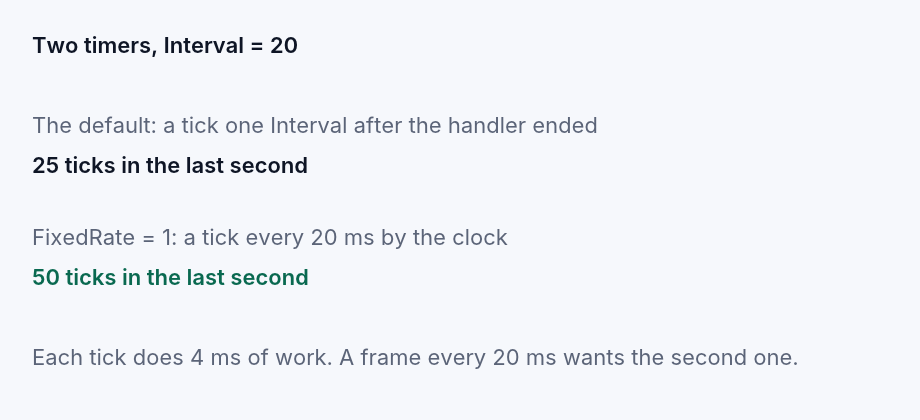
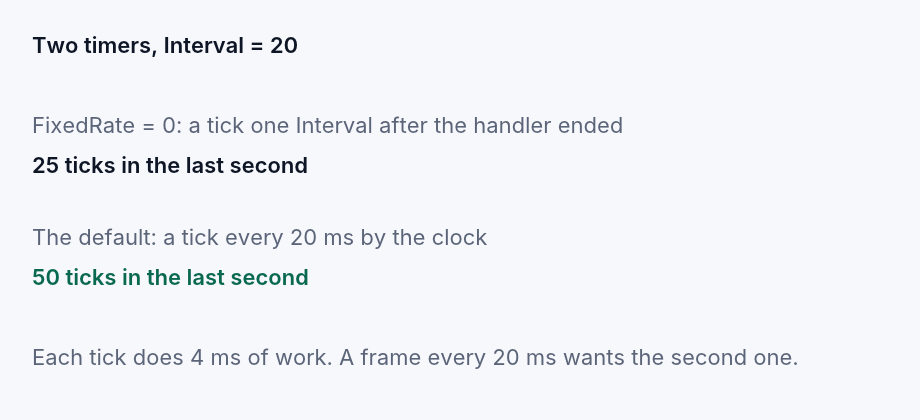
RTimer in a RapidR program ticks at a fixed rate by default (approved): FixedRate is True unless the program sets it to 0
Robert approved the rr-sane row (2026-11-07 19:43). In a .rr program an
RTimer now ticks every Interval exactly, by the clock; FixedRate = 0 is the
old rhythm (a tick one Interval after the handler ended, in Windows' 15.6 ms
steps). A classic program's QTIMER (.bas) is exactly as before, the system
timer's beat (the classic compiler's output); an RTimer made in a classic
program reads FixedRate False.

- component_defaults: FixedRate starts True in a RapidR program and False in
  a classic one (rapidr_program()), on every runtime; no registry default
  (the dialect sets it); unit test.
- timers: a tick that is already due when its handler ends (a heavy handler
  on a short Interval, an animation) waits a millisecond, so the window
  loop's other work - events, a test script, Studio's link - is never
  starved. Found by showcase/signal_lab.rr (Interval 1, a heavy handler):
  its scripted run did not finish; with the wait it takes as long as before.
  Classic programs' overdue ticks get the same wait.
- Conformance pair: rapidq_timer_steps.bas (the classic compiler's output:
  Interval 20 ticks about 32 times a second) and timer_default_rate.rr (50,
  FixedRate reads 1); timer_fixed_rate runs the default, then FixedRate = 0.
  Desktop (vm, vm-jit, native) and web; the whole suite on the VM, 361/361.
- RapidR Studio is a .rr program: its two "a turn later" timers with
  Interval = 1 (EditorFocus, PerfReady) keep the old rhythm (FixedRate = 0,
[…]

Changed region(s): [[0.0304, 0.2786, 0.7, 0.3405], [0.0304, 0.5262, 0.5478, 0.5881]]

diff --git a/crates/rapidr-ui-app/src/tests.rs b/crates/rapidr-ui-app/src/tests.rs
@@ -391,7 +391,9 @@ fn a_classic_timer_keeps_its_beat_whatever_its_handler_takes() {
     // at once; the beat goes on from 93.75
     advance(Duration::from_millis(50));
     run_queued();
-    assert_eq!(timers::next_due(), Some(at(112.5)));
+    // (already due: the loop's other work first, a millisecond)
+    assert_eq!(timers::next_due(), Some(at(113.5)));
+    advance(Duration::from_millis(1));
     assert!(timers::fire_due(Mem));
     run_queued();
     assert_eq!(timers::next_due(), Some(at(125.0)), "back on the beat: 93.75 + 31.25");
@@ -416,8 +418,11 @@ fn a_timer_that_is_behind_runs_once_a_turn() {
     });
     advance(Duration::from_micros(31_250));
     assert!(!timers::fire_due(Mem));
-    assert_eq!(fired().len(), 1, "its next tick fell due during the handler: it waits for the next turn");
-    assert_eq!(timers::next_due().map(|d| d <= NOW.with(|n| n.get()).unwrap()), Some(true));
+    assert_eq!(fired().len(), 1, "its next tick fell due during the handler: it waits for the loop's other work");
+    // (a millisecond, not more: the loop's turn, then it runs again)
+    let now = NOW.with(|n| n.get()).unwrap();
+    assert_eq!(timers::next_due(), Some(now + timers::OVERDUE_WAIT));
+    advance(timers::OVERDUE_WAIT);
     assert!(!timers::fire_due(Mem));
     assert_eq!(fired().len(), 2);
 }
@@ -445,16 +450,18 @@ fn a_fixed_rate_timer_ticks_every_interval_and_catches_up() {
     // beat goes on from it
     advance(Duration::from_millis(35));
     run_queued();
-    assert_eq!(timers::next_due(), Some(at(55)));
+    assert_eq!(timers::next_due(), Some(at(56)), "the tick of 40 is due: the loop's other work first, a millisecond");
+    advance(Duration::from_millis(1));
     assert!(timers::fire_due(Mem));
     run_queued();
     assert_eq!(timers::next_due(), Some(at(60)));
-    advance(Duration::from_millis(5));
+    advance(Duration::from_millis(4));
     assert!(timers::fire_due(Mem));
     // a handler of 600 ms (a dialog): too far behind to replay, it counts again from then
     advance(Duration::from_millis(600));
     run_queued();
-    assert_eq!(timers::next_due(), Some(at(660)));
+    assert_eq!(timers::next_due(), Some(at(661)), "behind: a millisecond for the loop, then it counts again");
+    advance(Duration::from_millis(1));
     assert!(timers::fire_due(Mem));
     run_queued();
     assert_eq!(timers::next_due(), Some(at(680)));

diff --git a/crates/rapidr-ui-app/src/timers.rs b/crates/rapidr-ui-app/src/timers.rs
@@ -111,6 +111,11 @@ pub enum Rhythm {
     Fixed,
 }
 
+/// How long a tick that is already due waits when its handler ends (the
+/// loop's other work gets its turn): the catch-up ticks follow each other at
+/// least this far apart.
+pub const OVERDUE_WAIT: Duration = Duration::from_millis(1);
+
 /// How far behind a `FixedRate` timer catches up one tick after another;
 /// further behind (a window dragged, a dialog, a stalled machine) it starts
 /// counting again, not to replay seconds of ticks.
@@ -238,8 +243,8 @@ pub fn fire_due_then<P: Program>(p: P, then: impl Fn()) -> bool {
         });
         let Some(name) = due else { return false };
         // (a timer that is behind is due again the moment its handler ends:
-        // its next tick waits for the next turn, so the window's events
-        // between are not starved — as WM_TIMER comes after the others)
+        // its next tick waits for a turn of the window loop, so the window's
+        // events between are not starved — as WM_TIMER comes after the others)
         if !round.insert(name.clone()) {
             let at = p.now();
             tm(|s| {
@@ -288,6 +293,10 @@ fn rearm<P: Program>(p: P, name: String) {
     let now = p.now();
     let grid = tm(|s| s.grid.get(&name).copied()).unwrap_or(now);
     let (at, grid) = follow(rhythm(p, &name), grid, period, now);
+    // (already due when its handler ended — it ran long: the loop's other
+    // work gets a turn before it runs again, so a handler that is always due
+    // never starves the window's events, a test script or Studio's link)
+    let at = if at <= now { now + OVERDUE_WAIT } else { at };
     tm(|s| {
         s.gen += 1;
         let g = s.gen;

diff --git a/crates/rapidr-value/src/component_defaults.rs b/crates/rapidr-value/src/component_defaults.rs
@@ -97,6 +97,10 @@ pub fn extras(type_name: &str) -> Vec<(String, Value)> {
             put("top", v_int(0));
             put("visible", v_bool(true));
         }
+        // RTimer's FixedRate: on in a RapidR program (a tick every Interval
+        // exactly, by the clock), off in a classic one (QTIMER keeps the
+        // system timer's own beat) — rapidr_ui_app::timers::Rhythm.
+        "RTIMER" => put("fixedrate", v_bool(crate::rapidr_program())),
         // QDIGDISPLAY: a canvas showing its Display (objects::digdisplay).
         "RDIGDISPLAY" => put("color", v_int(0)),
         // (docked at the bottom: its Align, the registry's alBottom)
@@ -380,6 +384,16 @@ mod tests {
 
     fn get<'a>(p: &'a [(String, Value)], k: &str) -> Option<&'a Value> {
         p.iter().rev().find(|(n, _)| n == k).map(|(_, v)| v)
+    }
+
+    /// RTimer's FixedRate starts on in a RapidR program and off in a classic one.
+    #[test]
+    fn a_timers_fixed_rate_follows_the_dialect() {
+        crate::set_rapidr_program(false);
+        assert_eq!(get(&creation("RTIMER"), "fixedrate"), Some(&v_bool(false)), "a classic program's QTIMER");
+        crate::set_rapidr_program(true);
+        assert_eq!(get(&creation("RTIMER"), "fixedrate"), Some(&v_bool(true)), "a RapidR program's RTimer");
+        crate::set_rapidr_program(false);
     }
 
     #[test]

diff --git a/docs/manual/es/graphics.md b/docs/manual/es/graphics.md
@@ -245,32 +245,41 @@ eso ya no pasa.
 
 ## Una imagen cada 20 milisegundos
 
-El `Interval` de un temporizador se cuenta en los pasos de 15.6 ms del
-temporizador del sistema, redondeado hacia arriba: `Interval = 20` son 31.25 ms,
-unas 32 marcas por segundo, no 50. Y cuando el controlador tarda buena parte del
-Interval, cómo se siguen las marcas depende del temporizador:
+En un programa de RapidR un `RTimer` marca **cada `Interval` milisegundos,
+exactos**, según el reloj (`FixedRate`, activado por defecto): `Interval = 20`
+son 50 marcas por segundo. Un controlador nunca se ejecuta dentro de sí mismo,
+así que cuando uno tarda más que el Interval, la marca que venció corre en cuanto
+termina, y las perdidas además de ella una tras otra hasta alcanzar el ritmo; si
+el programa va más de 250 ms atrasado (una ventana arrastrada, un diálogo largo)
+cuenta de nuevo desde ese momento.
+
+Pon `FixedRate = 0` y cada marca llega un Interval después de que el último
+controlador *terminó*, con el Interval contado en los pasos de 15.6 ms del
+temporizador del sistema, redondeado hacia arriba (`Interval = 20` son 31.25 ms,
+unas 32 marcas por segundo). El `QTimer` de un programa clásico (un archivo
+`.bas`) conserva el compás propio del temporizador del sistema. Cómo se
+diferencian los tres cuando el controlador tarda buena parte del Interval:
 
 | El temporizador | La siguiente marca llega |
 |---|---|
-| un `RTimer` en un programa de RapidR (lo predeterminado) | un Interval después de que el controlador **terminó**: con un controlador de 24 ms y `Interval = 20` marca cada 55 ms más o menos |
-| un `RTimer` con `FixedRate = 1` | cada Interval **exacto**, según el reloj: `Interval = 20` son 50 por segundo. Una marca que venció mientras un controlador largo se ejecutaba corre en cuanto este termina, y las perdidas además de ella una tras otra (los controladores nunca se solapan), hasta 250 ms de atraso; más atrasado (una ventana arrastrada, un diálogo largo) y vuelve a contar desde ese momento |
-| el `QTimer` de un programa clásico (un archivo `.bas`) | al compás: un Interval después de cuando le tocaba a la última marca, así que con un controlador de 24 ms sigue marcando cada 31 ms; una marca que venció durante el controlador corre en cuanto este termina, y las perdidas además de ella se descartan |
+| un `RTimer` en un programa de RapidR (`FixedRate` True, lo predeterminado) | cada Interval **exacto**, según el reloj: `Interval = 20` son 50 por segundo haga lo que haga un controlador de 4 ms. Una marca que venció mientras un controlador largo se ejecutaba corre en cuanto este termina, y las perdidas además de ella una tras otra, hasta 250 ms de atraso |
+| un `RTimer` con `FixedRate = 0` | un Interval después de que el controlador **terminó**, en pasos de 15.6 ms: con un controlador de 24 ms y `Interval = 20` marca cada 55 ms más o menos |
+| el `QTimer` de un programa clásico (un archivo `.bas`) | al compás: un período (el Interval en pasos de 15.6 ms) después de cuando le tocaba a la última marca, así que con un controlador de 24 ms sigue marcando cada 31 ms; una marca que venció durante el controlador corre en cuanto este termina, y las perdidas además de ella se descartan |
 
 Un programa que quiere un compás parejo — los 50 cuadros por segundo de un
-emulador, la aguja de un reloj, un metrónomo — pone `FixedRate = 1`:
+emulador, la aguja de un reloj, un metrónomo — no necesita más que el Interval:
 
 ```basic
-Clock.Interval = 20
-Clock.FixedRate = 1            ' cada 20 ms según el reloj, no 20 ms después del último cuadro
+Clock.Interval = 20            ' cada 20 ms según el reloj, no 20 ms después del último cuadro
 ```
 
-![steady_timer.rr: dos temporizadores con Interval = 20 y 4 ms de trabajo en cada marca; el predeterminado contó 25 marcas en el último segundo, el de FixedRate 50](../images/graphics/steady-timer.png)
+![steady_timer.rr: dos temporizadores con Interval = 20 y 4 ms de trabajo en cada marca; el de FixedRate = 0 contó 25 marcas en el último segundo, el predeterminado 50](../images/graphics/steady-timer.png)
 
 [steady_timer.rr](../../../examples/gui/steady_timer.rr) ejecuta los dos lado a
-lado y cuenta sus marcas. La otra forma, que funciona sin `FixedRate` y no
-depende del ritmo de las marcas: deja que el temporizador mire cada marca y
-dibuje una imagen solo cuando **toca** una, llevando tú mismo la cuenta de la
-hora en que toca:
+lado y cuenta sus marcas. La otra forma, que funciona también en un programa
+clásico y no depende del ritmo de las marcas: deja que el temporizador mire cada
+marca y dibuje una imagen solo cuando **toca** una, llevando tú mismo la cuenta de
+la hora en que toca:
 
 ```basic
 SUB Tick
@@ -284,8 +293,8 @@ END SUB
 ```
 
 con `Interval = 10` en el temporizador. Los cuadros están separados exactamente
-20 ms en promedio, hagan lo que hagan las marcas, siempre que el trabajo propio
-de un cuadro sea menor que unos 4 ms.
+20 ms en promedio, hagan lo que hagan las marcas, siempre que el trabajo propio
+de un cuadro sea bastante menor que los 20 ms.
 [pixels_fast.rr](../../../examples/graphics/pixels_fast.rr) es este ciclo: su
 lectura en pantalla dice cuántos cuadros por segundo dibuja de verdad, y cuánto
 tardó en calcular la imagen, ponerla en el mapa de bits y dibujarla.
@@ -296,7 +305,7 @@ tardó en calcular la imagen, ponerla en el mapa de bits y dibujarla.
 |---|---|
 | [round_rect.rr](../../../examples/graphics/round_rect.rr) | `RoundRect` con un borde y un interior en una sola llamada: una tarjeta, tres chips de estado y las tres formas, con los colores propios de la apariencia (clara, oscura, alto contraste) |
 | [copy_modes.rr](../../../examples/graphics/copy_modes.rr) | `CopyMode` en una misma imagen: reemplazar, XOR, un negativo, OR, líneas de barrido (`cmSrcAnd`) y un cuadro de selección (`cmPatInvert`) |
-| [steady_timer.rr](../../../examples/gui/steady_timer.rr) | Un `RTimer` y un `RTimer` con `FixedRate` contando sus marcas lado a lado: unas 25 por segundo contra 50 |
+| [steady_timer.rr](../../../examples/gui/steady_timer.rr) | Dos `RTimer` contando sus marcas lado a lado: el predeterminado, 50 por segundo, y uno con `FixedRate = 0`, unas 25 |
 | [pixels_fast.rr](../../../examples/graphics/pixels_fast.rr) | Un plasma (rotación de paleta, 256 x 192) y el Juego de la vida (64 x 48 celdas calculadas en cada cuadro) a 50 cuadros por segundo, con la lectura en pantalla. **Method** cambia a un `Pset` para cada píxel, para ver la diferencia: el plasma baja a unas 12 imágenes por segundo |
 | [video_memory.rr](../../../examples/recipes/video_memory.rr) | La receta de sistemas: el mapa de bits y los atributos de color de una máquina, guardados decodificados en un arreglo `BYTE` y dibujados con `SetPixels8`; **Repaint** mide el tiempo de un repintado completo (unos 0.2 ms; la primera versión de la receta tardaba de 8 a 13 ms) |
 | [tools/bench/pixels.rr](../../../tools/bench/pixels.rr) | La prueba de rendimiento de arriba, para ejecutarla en tu propia computadora |

diff --git a/docs/manual/graphics.md b/docs/manual/graphics.md
@@ -233,29 +233,37 @@ for 50,000 elements, which hid in every `RAudioOut.Write buf` too; that is gone.
 
 ## A picture every 20 milliseconds
 
-A timer's `Interval` is counted in the system timer's steps of 15.6 ms,
-rounded up: `Interval = 20` is 31.25 ms, about 32 ticks a second, not 50. And
-when the handler takes a good part of the Interval, how the ticks follow one
-another depends on the timer:
+In a RapidR program an `RTimer` ticks **every `Interval` milliseconds,
+exactly**, by the clock (`FixedRate`, on by default): `Interval = 20` is 50
+ticks a second. A handler never runs inside itself, so when one takes longer
+than the Interval the tick that fell due runs the moment it ends, and the ticks
+missed besides it one after another until the timer has caught up; if the
+program is more than 250 ms behind (a dragged window, a long dialog) it counts
+again from then.
+
+Set `FixedRate = 0` and each tick comes one Interval after the last handler
+*ended* instead, the Interval counted in the system timer's steps of 15.6 ms,
+rounded up (`Interval = 20` is 31.25 ms, about 32 ticks a second). A classic
+program's `QTimer` (a `.bas` file) keeps the system timer's own beat. How the
+three differ when the handler takes a good part of the Interval:
 
 | The timer | The next tick comes |
 |---|---|
-| an `RTimer` in a RapidR program (the default) | one Interval after the handler has **ended**: a 24 ms handler at `Interval = 20` ticks about every 55 ms |
-| an `RTimer` with `FixedRate = 1` | every Interval **exactly**, by the clock: `Interval = 20` is 50 a second. A tick that fell due while a long handler ran runs the moment it ends, and the ones missed besides it one after another (handlers never overlap), up to 250 ms behind; further behind (a dragged window, a long dialog) and it counts again from then |
-| a classic program's `QTimer` (a `.bas` file) | on the beat: an Interval from where the last tick was **due**, so a 24 ms handler still ticks every 31 ms; a tick that fell due during the handler runs the moment it ends, the ones missed besides it are dropped |
+| an `RTimer` in a RapidR program (`FixedRate` True, the default) | every Interval **exactly**, by the clock: `Interval = 20` is 50 a second whatever a 4 ms handler does. A tick that fell due while a long handler ran runs the moment it ends, and the ones missed besides it one after another, up to 250 ms behind |
+| an `RTimer` with `FixedRate = 0` | one Interval after the handler has **ended**, in 15.6 ms steps: a 24 ms handler at `Interval = 20` ticks about every 55 ms |
+| a classic program's `QTimer` (a `.bas` file) | on the beat: a period (the Interval in 15.6 ms steps) from where the last tick was **due**, so a 24 ms handler still ticks every 31 ms; a tick that fell due during the handler runs the moment it ends, the ones missed besides it are dropped |
 
-A program that wants a steady beat — an emulator's 50 frames a second, a
-clock hand, a metronome — sets `FixedRate = 1`:
+A program that wants a steady beat — an emulator's 50 frames a second, a clock
+hand, a metronome — needs nothing more than the Interval:
 
 ```basic
-Clock.Interval = 20
-Clock.FixedRate = 1            ' every 20 ms by the clock, not 20 ms after the last frame
+Clock.Interval = 20            ' every 20 ms by the clock, not 20 ms after the last frame
 ```
 
-![steady_timer.rr: two timers at Interval = 20 with 4 ms of work in each tick; the default one counted 25 ticks in the last second, the one with FixedRate 50](images/graphics/steady-timer.png)
+![steady_timer.rr: two timers at Interval = 20 with 4 ms of work in each tick; the one with FixedRate = 0 counted 25 ticks in the last second, the default one 50](images/graphics/steady-timer.png)
 
 [steady_timer.rr](../../examples/gui/steady_timer.rr) runs both side by side
-and counts their ticks. The other way, which works without `FixedRate` and
+and counts their ticks. The other way, which works in a classic program too and
 cares nothing for the ticks' rhythm: let the timer look at every tick and draw a
 picture only when one is **due**, keeping the due time yourself:
 
@@ -271,8 +279,8 @@ END SUB
 ```
 
 with `Interval = 10` on the timer. The frames are exactly 20 ms apart on
-average whatever the ticks do, as long as one frame's own work is under about
-4 ms. [pixels_fast.rr](../../examples/graphics/pixels_fast.rr) is this loop:
+average whatever the ticks do, as long as one frame's own work is well under
+the 20 ms. [pixels_fast.rr](../../examples/graphics/pixels_fast.rr) is this loop:
 its readout says how many frames a second it really draws, and how long it
 spent working the picture out, putting it into the bitmap and drawing it.
 
@@ -282,7 +290,7 @@ spent working the picture out, putting it into the bitmap and drawing it.
 |---|---|
 | [round_rect.rr](../../examples/graphics/round_rect.rr) | `RoundRect` with a border and an inside in one call: a card, three status chips and the three forms, in the look's own colours (light, dark, high contrast) |
 | [copy_modes.rr](../../examples/graphics/copy_modes.rr) | `CopyMode` on one picture: replace, XOR, a negative, OR, scanlines (`cmSrcAnd`) and a selection box (`cmPatInvert`) |
-| [steady_timer.rr](../../examples/gui/steady_timer.rr) | An `RTimer` and an `RTimer` with `FixedRate` counting their ticks side by side: about 25 a second against 50 |
+| [steady_timer.rr](../../examples/gui/steady_timer.rr) | Two `RTimer`s counting their ticks side by side: the default, 50 a second, and one with `FixedRate = 0`, about 25 |
 | [pixels_fast.rr](../../examples/graphics/pixels_fast.rr) | A plasma (palette cycling, 256 x 192) and the Game of Life (64 x 48 cells worked out every frame) at 50 frames a second, with the readout. **Method** switches to a `Pset` for every pixel, to see the difference: the plasma drops to about 12 pictures a second |
 | [video_memory.rr](../../examples/recipes/video_memory.rr) | The systems recipe: a machine's bitmap and colour attributes kept decoded in a `BYTE` array and drawn with `SetPixels8`; **Repaint** times a full repaint (about 0.2 ms; the first version of the recipe took 8 to 13 ms) |
 | [tools/bench/pixels.rr](../../tools/bench/pixels.rr) | The benchmark above, to run on your own computer |

diff --git a/CHANGELOG.md b/CHANGELOG.md
@@ -13,7 +13,10 @@ project uses [Semantic Versioning](https://semver.org/). Planned work lives in
 - **`RoundRect` takes a second colour** ([the manual](docs/manual/graphics.md#rounded-boxes-roundrect), [round_rect.rr](examples/graphics/round_rect.rr)): `RoundRect x1, y1, x2, y2, rx, ry, Color, Fill` draws a one-pixel border in `Color`, just inside the edge, and fills the inside with `Fill` (-1: only the border), as `Circle` takes its two colours; on an `RCanvas`, `RoundRect x1, y1, x2, y2, rx, ry` uses `PenColor` and `BrushColor`. A card or a pill is one call instead of two drawn one inside the other. The seven-argument form is exactly as before (the colour fills the whole box), pinned by a conformance case. The same on a canvas, a bitmap, an image, a form's surface, a DirectX screen, an owner-drawn list or grid and (square) on a printer page; on a high-DPI screen the curve is drawn at the screen's own scale. Tests: `roundrect_fill` (a picture of the box in letters, on a bitmap and a canvas), the box covers exactly what the one-colour form fills (unit test).
 - **`CopyMode` works** ([the manual](docs/manual/graphics.md#copymode-how-a-picture-meets-what-is-there), [copy_modes.rr](examples/graphics/copy_modes.rr)): `Draw`, `StretchDraw` and `CopyRect` combine the picture with what is already there as the destination's `CopyMode` says, the 15 raster operations of Windows (`cmSrcInvert`, `cmSrcAnd` for scanlines, `cmSrcPaint`, `cmNotSrcCopy`, `cmPatInvert` for a selection box ...), whole or part of a picture, scaled or not, on an `RCanvas`, an `RBitmap`, an `RImage` and a form's surface, interpreted, native and in a browser; before, every mode copied. A mode that uses a pattern uses the destination's brush: an `RCanvas` in a RapidR program its `BrushColor`, a classic canvas the colour last used to fill. Checked against the classic compiler: its 15 results for `CopyRect`, `Draw` and `StretchDraw` on a bitmap, an image and a canvas, and which drawing calls leave their colour in the brush, are a conformance case.
 - **`RAudioOut.OnError (Code, Message)`** ([the manual](docs/manual/directx-and-media.md#sound-made-sample-by-sample-raudioout), [audio_errors.rr](examples/media/audio_errors.rr)): the sound says what went wrong on the program's thread, a moment after it happened — `aeNoDevice` (no sound device, or it refused the stream), `aeDeviceLost` (the device stopped taking sound for a second while it played: unplugged, a headset that went away), `aeBadSetting` (a property set out of its range), `aeUnderrun` (the queue ran dry; at most four a second, with how many times) and `aeNeedsClick` (a browser waits for a click or a key). `Error` says the same in the same words; a program without `OnError` is unchanged. The same on every system; test `audioout_onerror`.
-- **`RTimer.FixedRate`** ([the manual](docs/manual/graphics.md#a-picture-every-20-milliseconds), [steady_timer.rr](examples/gui/steady_timer.rr)): `FixedRate = 1` ticks every `Interval` milliseconds exactly, by the clock — 50 a second at `Interval = 20`, where the default ticks about 28 — and a tick that fell due during a long handler runs the moment it ends, the missed ones made up one after another (never two handlers at once), up to 250 ms behind; further behind it counts again from then. Test `timer_fixed_rate`.
+- **`RTimer.FixedRate`** ([the manual](docs/manual/graphics.md#a-picture-every-20-milliseconds), [steady_timer.rr](examples/gui/steady_timer.rr)): `FixedRate = 1` ticks every `Interval` milliseconds exactly, by the clock — 50 a second at `Interval = 20`, where the one-Interval-after-the-handler rhythm ticks about 28 — and a tick that fell due during a long handler runs the moment it ends, the missed ones made up one after another (never two handlers at once), up to 250 ms behind; further behind it counts again from then. Test `timer_fixed_rate`. (On by default in a RapidR program: see Changed.)
+
+### Changed
+- **An `RTimer` in a RapidR program ticks every `Interval` exactly, by the clock, by default** (`FixedRate` is True unless the program sets it to 0; approved in `docs/rr-sane-audit.md`): `Interval = 20` is 50 ticks a second, not about 28 — before, the next tick came one Interval (counted in Windows' timer steps of 15.6 ms) after the handler had *ended*, so a frame-driven program ran slow and its sound queue ran dry. A tick that falls due during a long handler runs the moment it ends and the ones missed besides it one after another, up to 250 ms behind; a handler never runs inside itself, and a timer that is behind runs one handler a turn with a millisecond between them for the window loop's other work, so a heavy handler on a short Interval (an animation) never starves the window's events, a test script or Studio's link. `FixedRate = 0` is the old rhythm. A classic program's `QTIMER` (`.bas`) is exactly as before — the system timer's beat — and an `RTimer` created in a classic program reads `FixedRate` False. A conformance pair pins both: the classic program (the classic compiler's own output: about 32 ticks a second at `Interval = 20`) and `timer_default_rate` (50); `timer_fixed_rate` runs the default, then `FixedRate = 0`. RapidR Studio's own timers: the two that wait "a turn later" with `Interval = 1` keep the old rhythm (`FixedRate = 0`), the rest are unchanged in effect (all 60 ms or slower, with cheap handlers).
 
 ### Fixed
 - **Grids reach screen readers as tables**: an `RDBGrid`'s and an `RStringGrid`'s rows hold their cells (each named with its column's heading and its place: "Name, Ada, row 2 of 10, column 1 of 3", counted from 1), the fixed row's cells are column headings, and the current cell has the screen reader's focus, so each arrow key says the new cell — before, a data grid's rows were only "Row 0 of 400" with nothing under them. A string grid too big to describe whole describes the rows around the current one. An `RListView`'s report view says each row's other columns with their headings. In a browser the cells carry ARIA's row and column numbers and headings.

diff --git a/docs/manual/reference/members.md b/docs/manual/reference/members.md
@@ -3559,13 +3559,13 @@ A font picker: Execute shows it and returns 1 when the user chooses a font, then
 <a id="rtimer"></a>
 ## RTimer
 
-Runs its OnTimer handler every Interval milliseconds while Enabled, between the program's other work: it ticks while the program waits (a modal form, DOEVENTS, a dialog), one handler at a time, never inside itself. Interval is counted in Windows' timer steps of 15.6 ms, rounded up (20 ticks every 31.25 ms; 0 never ticks). When the handler takes a good part of the Interval, how the ticks follow one another matters: in a RapidR program the next tick comes one Interval after the handler has ended; in a classic program (.bas), as the classic compiler's own timer, the ticks keep their beat and one that fell due meanwhile runs the moment the handler ends. For a steady beat set FixedRate.
+Runs its OnTimer handler every Interval milliseconds while Enabled, between the program's other work: it ticks while the program waits (a modal form, DOEVENTS, a dialog), one handler at a time, never inside itself. In a RapidR program the ticks come every Interval exactly, by the clock (FixedRate, on by default): when a handler runs long, the tick that fell due runs the moment it ends and the ones missed besides it one after another, up to 250 ms behind. With FixedRate False the next tick comes one Interval after the handler ended, the Interval counted in Windows' timer steps of 15.6 ms (20 ticks every 31.25 ms). A classic program (.bas) keeps the system timer's own beat: a period from where the last tick was due, the same steps, 0 never ticks.
 
 | Property | Type | Default | |
 |---|---|---|---|
 | `Enabled` | bool | True | Whether the control answers the mouse and keyboard (a disabled one is greyed); on a timer, whether it ticks. |
-| `Interval` | int | 1000 | The milliseconds between a timer's ticks, rounded up to Windows' timer steps of 15.6 ms (Interval 20 ticks every 31.25 ms; with FixedRate, exactly as set). 0 or less: it never ticks. |
-| `FixedRate` | bool | False | True: the ticks come every Interval milliseconds exactly, by the clock — the beat of a frame, a clock hand, an emulator's 50 frames a second — not Interval after the last handler ended. A handler that takes longer than the Interval never overlaps the next: the tick that fell due runs the moment it ends, and the ones missed besides it one after another until the timer has caught up; if the program is more than 250 ms behind (a stalled window, a long dialog), the count starts again from then. False (the default): the ticks are as the Interval says above. |
+| `Interval` | int | 1000 | The milliseconds between a timer's ticks. In a RapidR program exactly as set (with FixedRate, the default: 20 is 50 ticks a second); with FixedRate False, and in a classic program, rounded up to Windows' timer steps of 15.6 ms (20 ticks every 31.25 ms). 0 or less: it never ticks. |
+| `FixedRate` | bool |  | True (a RapidR program's default; a classic program's timer starts with False): the ticks come every Interval milliseconds exactly, by the clock — the beat of a frame, a clock hand, an emulator's 50 frames a second. A handler that takes longer than the Interval never overlaps the next: the tick that fell due runs the moment it ends, and the ones missed besides it one after another until the timer has caught up; if the program is more than 250 ms behind (a stalled window, a long dialog), the count starts again from then. False: in a RapidR program the next tick comes one Interval (in 15.6 ms steps) after the last handler ended; in a classic program the system timer's own beat, a period from where the last tick was due, a tick that fell due during the handler running the moment it ends. |
 | `Tag` | int |  | A number for the program's own use; RapidR never reads it. |
 
 | Event | |

diff --git a/docs/rr-sane-audit.md b/docs/rr-sane-audit.md
@@ -605,4 +605,4 @@ Each row says the classic way (probed), what a `.rr` program does today and the 
 
 | # | Item | Classic (probed) | A `.rr` program today | Recommendation | Status |
 |---|---|---|---|---|---|
-| 1 | The rhythm of an `RTimer` | The system's timer: ticks every Interval rounded up to 15.625 ms steps, **phase-locked** — the next tick is one period from where the last was *due*, not from where its handler ended; a tick that fell due during a long handler waits and runs the moment it ends (at most one waits). Probed in the Windows 11 VM with a handler spinning 0, 24, 50 and 130 ms: `Interval = 20` with a 24 ms handler gave gaps of 31 ms; with 50 ms, 50 ms back to back; `Interval = 100` with 24 ms gave 109 to 116 ms | The next tick comes one period **after the handler ended** (so `Interval = 20` with a 24 ms handler ticks every 55 ms, 18 a second; an emulator frame timer runs slow and its sound queue runs dry). Opt in to the steady beat with `FixedRate = 1` (every Interval exactly, a late tick made up at once, up to 250 ms behind) | Make the `.rr` default the steady beat: **`FixedRate` true unless set to 0**, so `Interval = 20` means a tick every 20 ms by the clock, as a person reads it. The manual already described the timer as "every Interval milliseconds"; today it is not. Cost: a program tuned to the slow rhythm ticks faster (its handler runs once a turn, so the window stays responsive); a conformance pair `.bas` against `.rr` pins both | **APPROVED by Robert 2026-11-07 19:43**: FixedRate is the `.rr` default |
+| 1 | The rhythm of an `RTimer` | The system's timer: ticks every Interval rounded up to 15.625 ms steps, **phase-locked** — the next tick is one period from where the last was *due*, not from where its handler ended; a tick that fell due during a long handler waits and runs the moment it ends (at most one waits). Probed in the Windows 11 VM with a handler spinning 0, 24, 50 and 130 ms: `Interval = 20` with a 24 ms handler gave gaps of 31 ms; with 50 ms, 50 ms back to back; `Interval = 100` with 24 ms gave 109 to 116 ms | The next tick comes one period **after the handler ended** (so `Interval = 20` with a 24 ms handler ticks every 55 ms, 18 a second; an emulator frame timer runs slow and its sound queue runs dry). Opt in to the steady beat with `FixedRate = 1` (every Interval exactly, a late tick made up at once, up to 250 ms behind) | Make the `.rr` default the steady beat: **`FixedRate` true unless set to 0**, so `Interval = 20` means a tick every 20 ms by the clock, as a person reads it. The manual already described the timer as "every Interval milliseconds"; today it is not. Cost: a program tuned to the slow rhythm ticks faster (its handler runs once a turn, so the window stays responsive); a conformance pair `.bas` against `.rr` pins both | **APPROVED by Robert 2026-11-07 19:43**, done: FixedRate is the `.rr` default (RapidR Studio's two "a turn later" timers keep `FixedRate = 0`) |

diff --git a/examples/README.md b/examples/README.md
@@ -61,7 +61,7 @@ claims, headless).
 | Example | What it shows | Runs on | Try |
 |---------|---------------|---------|-----|
 | [hello_form.rr](gui/hello_form.rr) | A form built with `CREATE`: a text box, a button's `OnClick`, `OnChange` | run · interp · native · web | `rapidr run gui/hello_form.rr` |
-| [steady_timer.rr](gui/steady_timer.rr) | Two `RTimer`s with `Interval = 20`: the default one ticks an Interval after its handler ended (about 25 a second), the `FixedRate = 1` one every 20 ms by the clock (50), counted side by side ([A picture every 20 milliseconds](../docs/manual/graphics.md#a-picture-every-20-milliseconds)) | run · interp · native · web | `rapidr run gui/steady_timer.rr` |
+| [steady_timer.rr](gui/steady_timer.rr) | Two `RTimer`s with `Interval = 20`: one with `FixedRate = 0` ticks an Interval after its handler ended (about 25 a second), the default one every 20 ms by the clock (50), counted side by side ([A picture every 20 milliseconds](../docs/manual/graphics.md#a-picture-every-20-milliseconds)) | run · interp · native · web | `rapidr run gui/steady_timer.rr` |
 | [focus_events.rr](gui/focus_events.rr) | `OnEnter` and `OnExit` (RapidR's own): a box's help when the focus comes to it, its check when the focus leaves it ([the manual](../docs/manual/components.md#the-focus-onenter-and-onexit)) | run · interp · native · web | `rapidr run gui/focus_events.rr` |
 | [snapshot.rr](gui/snapshot.rr) | `RWindowCapture`, the program's own eyes: "Save as picture" saves a PNG of its own window (never the screen or another program), "Check layout" says what looks wrong — narrow a button and its caption is cut off ([the manual](../docs/manual/app-eyes-and-hands.md)) | run · interp · native · web | `rapidr run gui/snapshot.rr` |
 | [guided_tour.rr](gui/guided_tour.rr) | `RAppHands`, the program's own hands: "Show me" types and clicks through a to-do list with a pointer that glides to each control, each step said as it is done — never your real mouse ([the manual](../docs/manual/app-eyes-and-hands.md)) | run · interp · native · web | `rapidr run gui/guided_tour.rr` |

diff --git a/docs/manual/es/recipes-systems.md b/docs/manual/es/recipes-systems.md
@@ -171,12 +171,12 @@ son iguales o mejores.
   cada píxel que está encendido) cuesta de 1 a 3 µs en el Runtime; `SetPixels8` pasa
   los 49 152 por una paleta en una sola llamada
   ([Dibujar muchos píxeles rápido](graphics.md#dibujar-muchos-píxeles-rápido)).
-- **Un cuadro cada 20 ms.** Un `RTimer` cuenta su `Interval` en pasos de 15.6 ms de
-  Windows: `Interval = 20` llega cada 31.25 ms, unas 32 veces por segundo, y el
-  temporizador de un programa de RapidR marca un Interval después de que su
-  controlador *terminó*. Para exactamente 50 por segundo pon `FixedRate = 1`: una
-  marca cada 20 ms según el reloj, y una tardía se recupera de inmediato
-  ([Una imagen cada 20 milisegundos](graphics.md#una-imagen-cada-20-milisegundos)).
+- **Un cuadro cada 20 ms.** En un programa de RapidR un `RTimer` marca cada
+  `Interval` exacto, según el reloj (`FixedRate`, activado por defecto): `Interval
+  = 20` son 50 cuadros por segundo y una marca tardía se recupera de inmediato. Con
+  `FixedRate = 0`, y en un programa clásico, el Interval se cuenta en pasos de
+  15.6 ms de Windows: `Interval = 20` llega cada 31.25 ms, unas 32 veces por
+  segundo ([Una imagen cada 20 milisegundos](graphics.md#una-imagen-cada-20-milisegundos)).
 - **Lo único lento que se encontró: escribir un archivo un byte a la vez.** Cada
   escritura es una llamada al sistema (la computadora pasa 0.8 s de ese segundo en el
   sistema), una lectura usa un búfer: escribir 64 KB tarda de 0.6 a 1 s y leerlos,

diff --git a/docs/manual/es/directx-and-media.md b/docs/manual/es/directx-and-media.md
@@ -186,13 +186,13 @@ vez (examples/media/beeper.rr, y la receta examples/recipes/frame_audio.rr):
 
 Un `RTimer` revisa con frecuencia y ejecuta cuadros hasta que hay unos 60 ms en
 cola, así que un tic que llega tarde se pone al día y el sonido nunca tiene
-huecos. Usa `Interval = 10`: los tics de un `RTimer` llegan en los pasos de
-15.6 ms del temporizador del sistema (`Interval = 20` solo marca cada 31 ms, y el
-temporizador de un programa de RapidR marca un Interval después de que su
-controlador *terminó*, lo que le deja a una cola de 60 ms poco margen para un tic
-tardío). O pon `FixedRate = 1` con `Interval = 20`: un tic exactamente cada 20 ms
-según el reloj, un cuadro por tic, y uno tardío se recupera de inmediato
-([Una imagen cada 20 milisegundos](graphics.md#una-imagen-cada-20-milisegundos)).
+huecos. Usa `Interval = 10`, o sencillamente `Interval = 20`: en un programa de
+RapidR un `RTimer` marca exactamente cada Interval según el reloj (`FixedRate`,
+activado por defecto), un cuadro por tic con 20, y un tic tardío se recupera de
+inmediato. (Con `FixedRate = 0`, y en un programa clásico, los tics llegan en los
+pasos de 15.6 ms del temporizador del sistema: `Interval = 20` solo marca cada 31
+ms, lo que le deja a una cola de 60 ms poco margen para un tic tardío —
+[Una imagen cada 20 milisegundos](graphics.md#una-imagen-cada-20-milisegundos).)
 El intérprete de RapidR hace un cuadro así en 0.2 a 0.6 ms, una pequeña parte de
 los 20 ms de que dispone.
 

diff --git a/docs/manual/directx-and-media.md b/docs/manual/directx-and-media.md
@@ -168,12 +168,12 @@ program at exact moments. An emulator plays it a frame at a time
 
 An `RTimer` checks often and runs frames until about 60 ms is queued, so a
 tick that comes late catches up and the sound never gaps. Use
-`Interval = 10`: an `RTimer`'s ticks come on the system timer's 15.6 ms
-steps (`Interval = 20` ticks only every 31 ms, and a RapidR program's timer
-ticks one Interval after its handler has *ended*, which leaves a 60 ms queue
-little room for a late one). Or set `FixedRate = 1` with `Interval = 20`: a
-tick exactly every 20 ms by the clock, one frame each, a late one made up at
-once ([A picture every 20 milliseconds](graphics.md#a-picture-every-20-milliseconds)).
+`Interval = 10`, or simply `Interval = 20`: in a RapidR program an `RTimer`
+ticks exactly every Interval by the clock (`FixedRate`, on by default), one
+frame each at 20, and a late tick is made up at once. (With `FixedRate = 0`, and
+in a classic program, the ticks come on the system timer's 15.6 ms steps:
+`Interval = 20` ticks only every 31 ms, which leaves a 60 ms queue little room
+for a late one — [A picture every 20 milliseconds](graphics.md#a-picture-every-20-milliseconds).)
 RapidR's interpreter makes such a frame in 0.2 to 0.6 ms, a small part of the
 20 ms it has.
 
